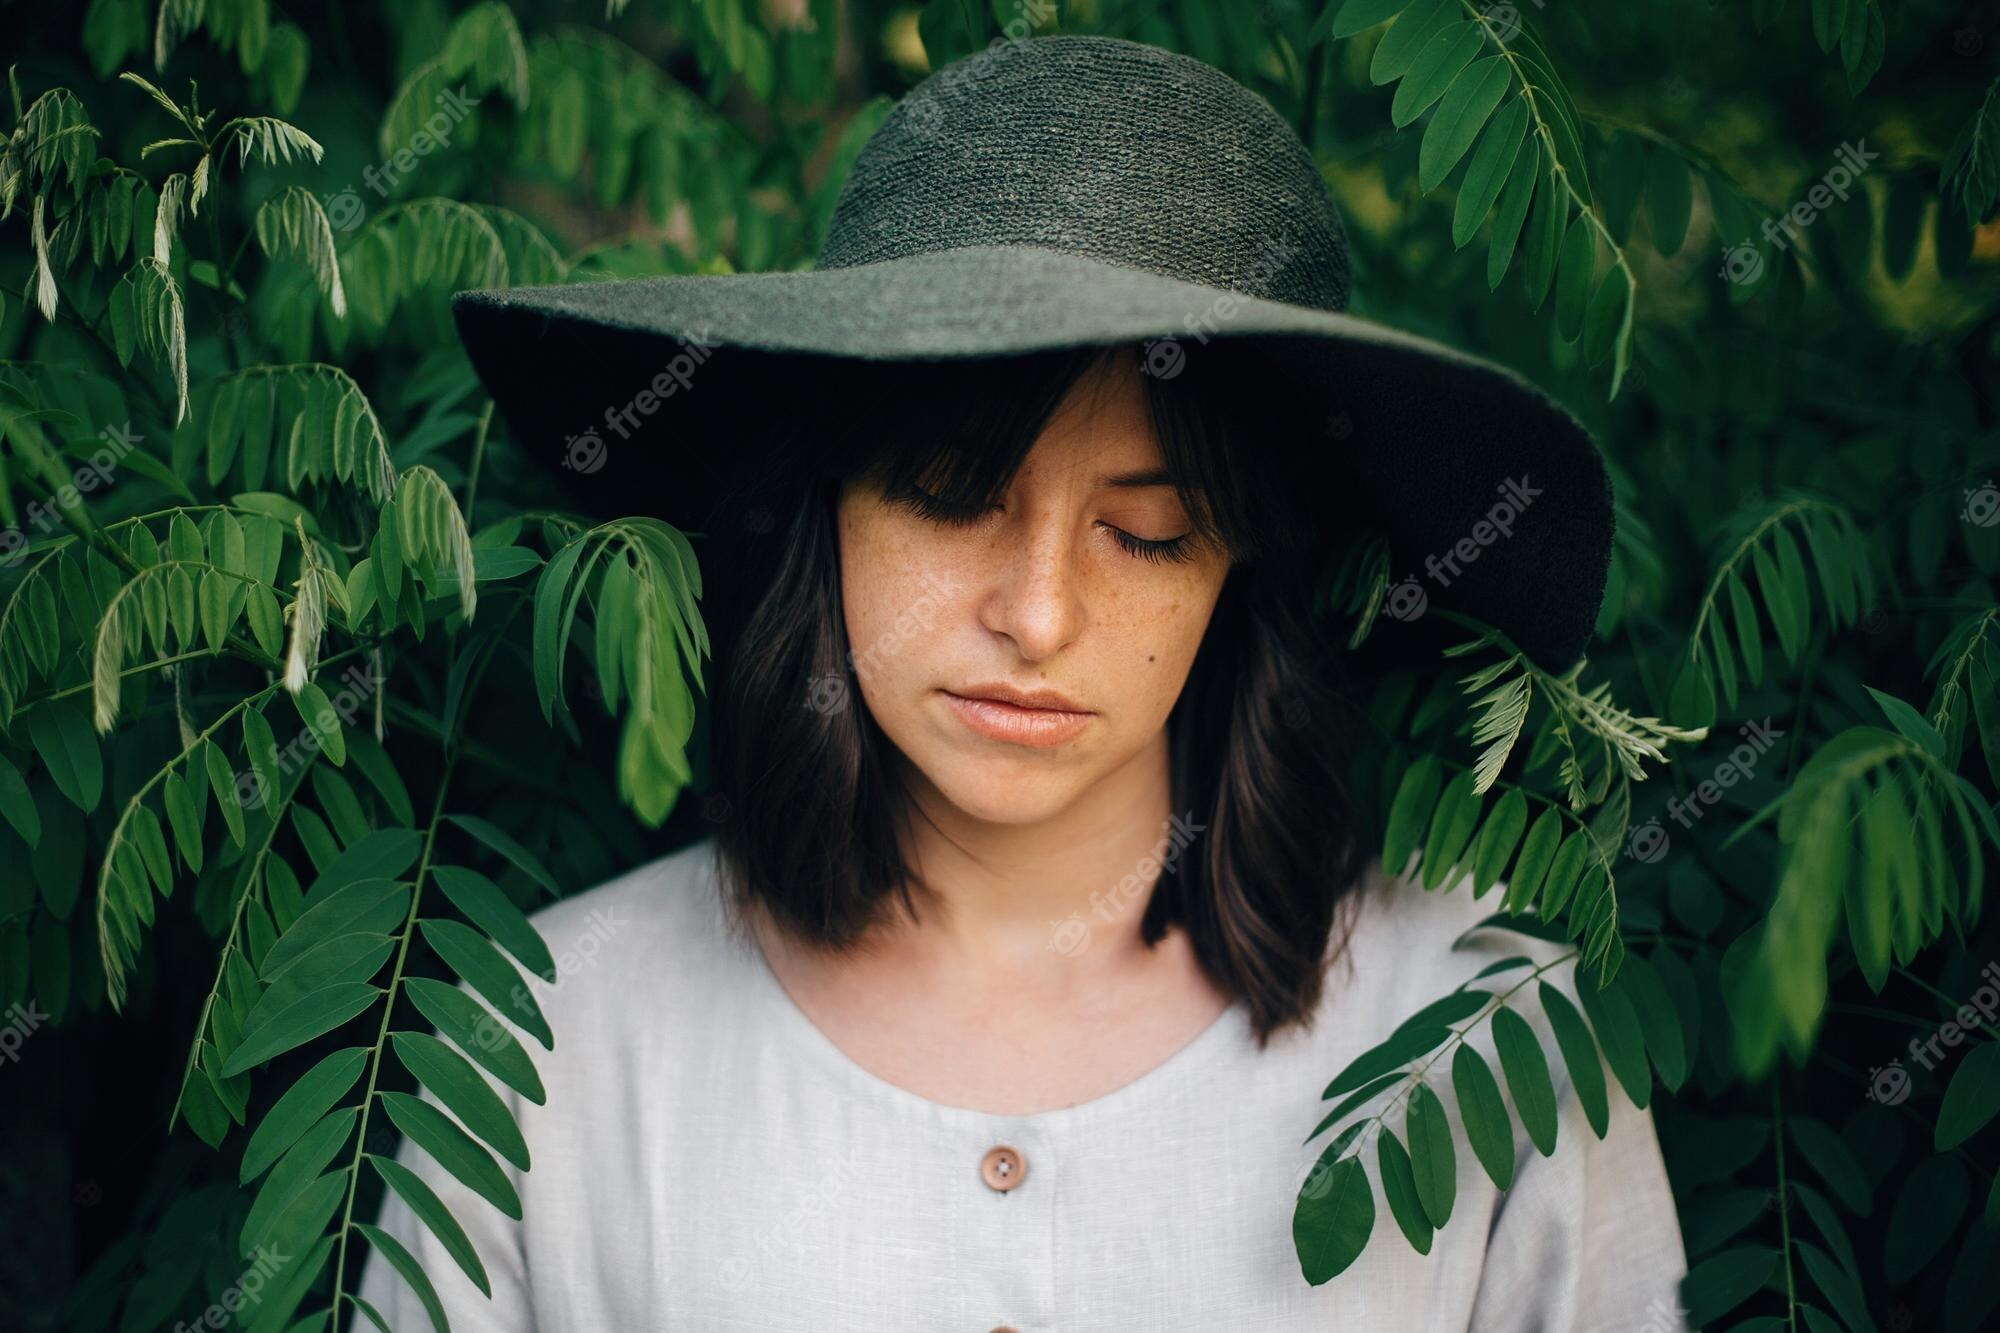
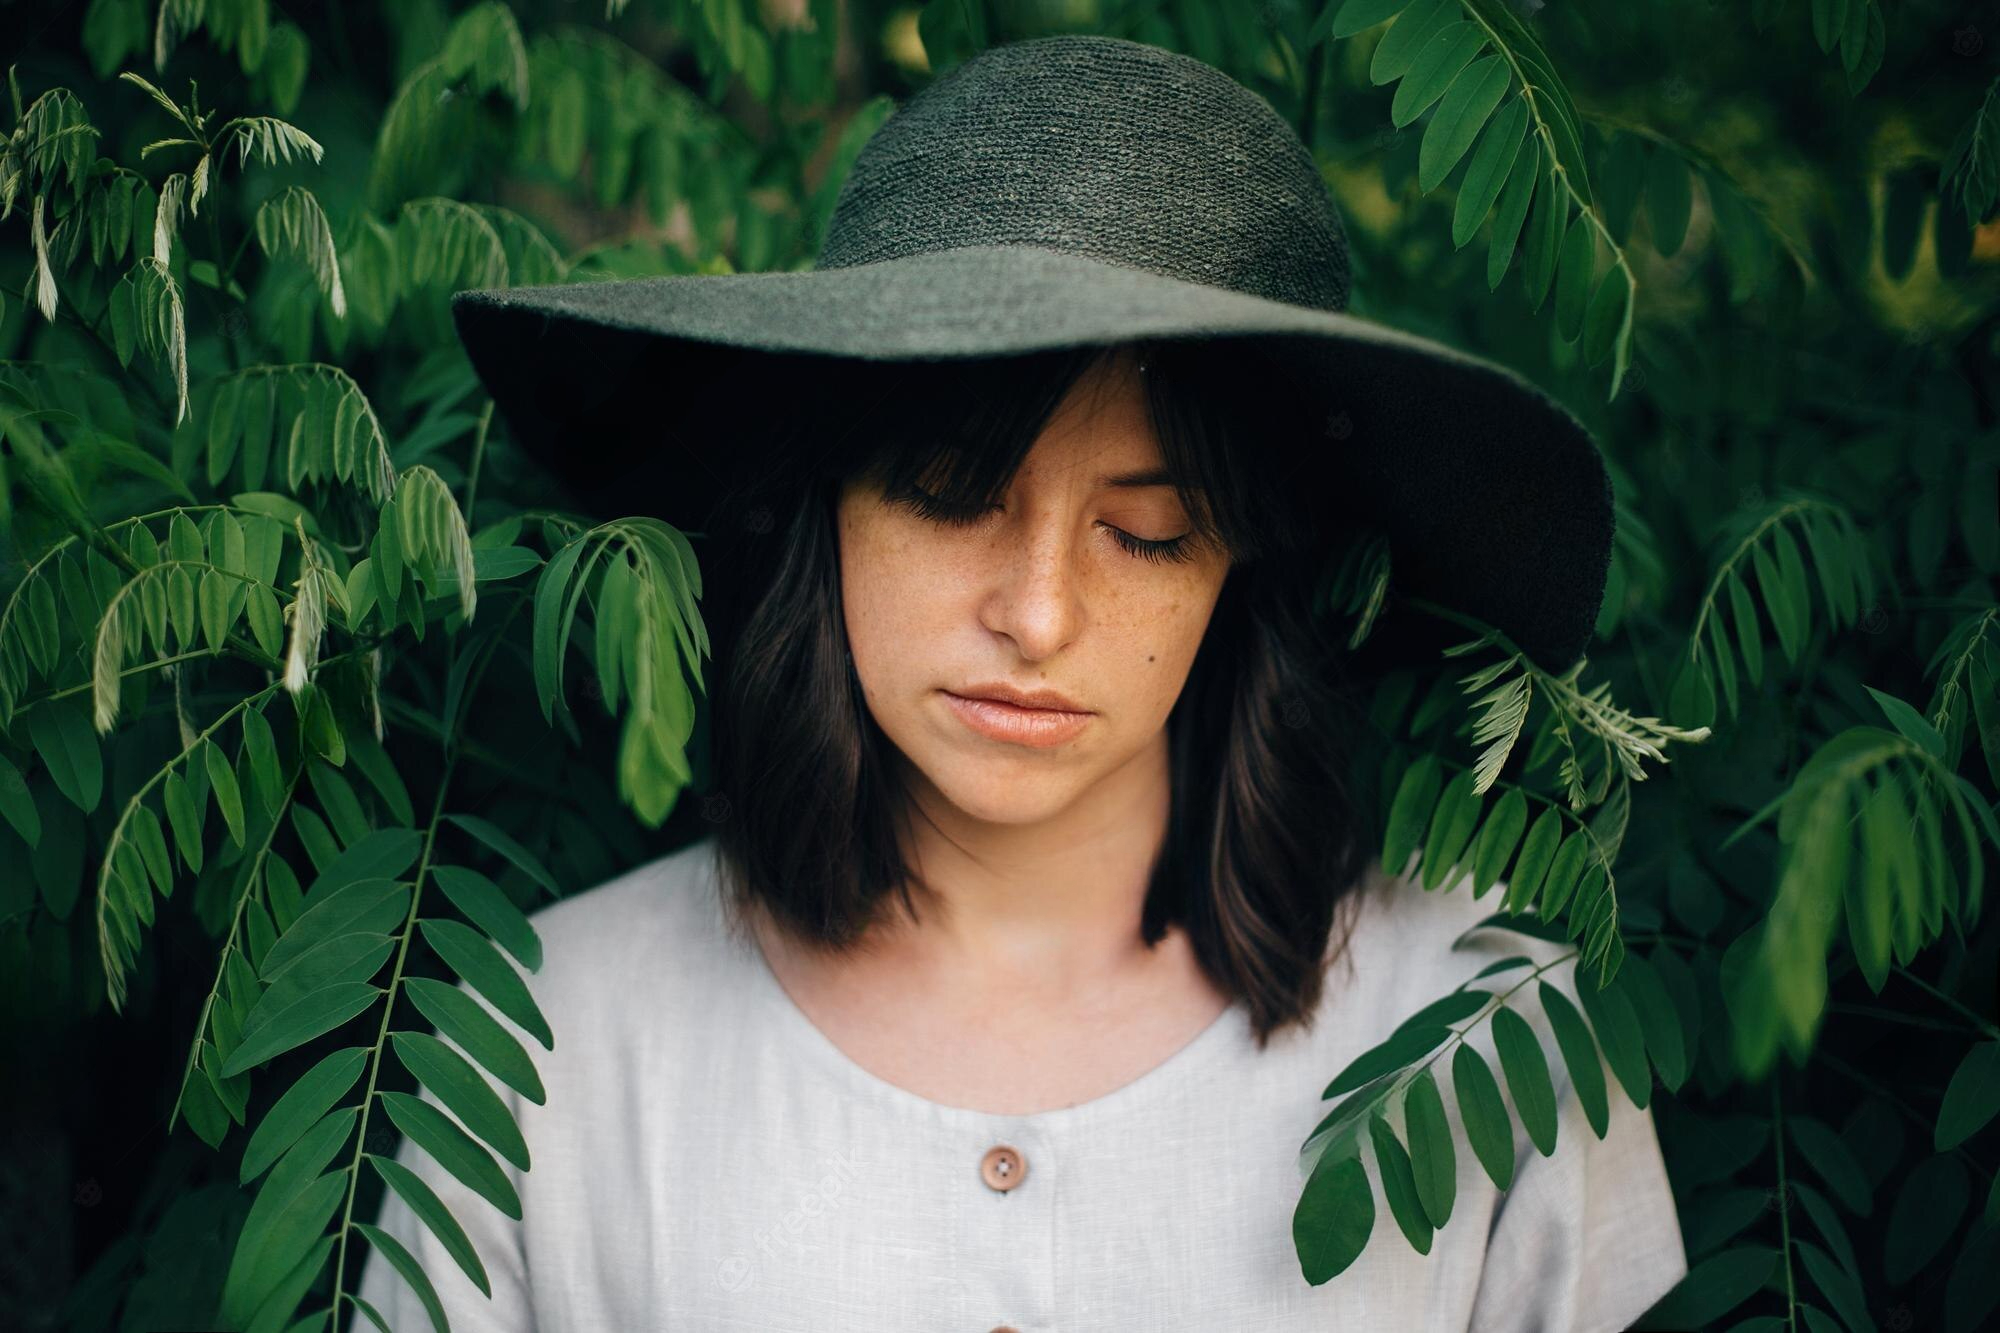
update the bg images to remove the text
changes the color of the nav bg

diff --git a/index.css b/index.css
@@ -16,7 +16,7 @@
     --primary-600: #069526;
     --primary-700: #017014;
     --primary-800: #004B08;
-    --primary-900: rgb(0, 38, 2);
+    --primary-900: rgb(2, 27, 3);
 }
 body {
         background-color: var(--primary-100);
@@ -38,7 +38,7 @@ body {
         position:fixed;
         width: 100vw;
         height: 10vh;
-        background-color:rgba(0, 38, 2, 0.3);
+        background-color:#0d0d0d;
         font-family: 'Aboreto', cursive;
         letter-spacing: 0.3em;
         padding: 10px;
@@ -312,7 +312,9 @@ footer {
     
 
     .landimg {
-        background-image: none;
+        background-image: url(images/mainbgs.jpeg);
+        background-position: center;
+        background-size: cover;
         width: 100vw;
         height: 90vh;
         background-color: var(--primary-900);

diff --git a/index.html b/index.html
@@ -27,7 +27,6 @@
         
     </nav>
     <section class="landimg">
-        <img src="images/mainbgs.jpeg" alt="">
     </section>
     
     <section class="info">
